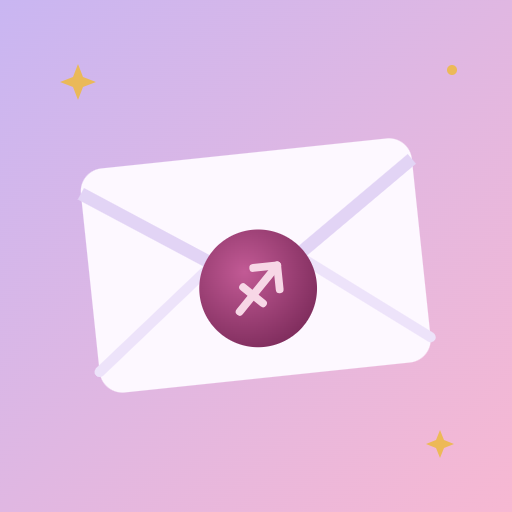
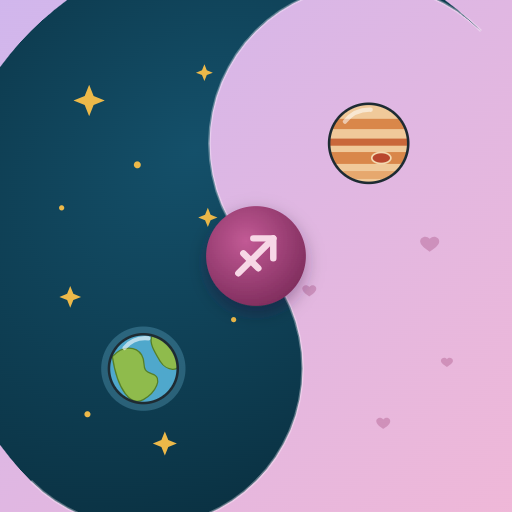
0.1.92: іконка — інь-янь двох половин із Землею, Юпітером і Стрільцем; одна стрічка на весь застосунок (ribbon зі стрілками); колесо компактніше, улюбленець над ним

diff --git a/js/plans.js b/js/plans.js
@@ -3,7 +3,7 @@
 import { DATA, who } from './data.js';
 import { get, send } from './api.js';
 import { mascotImg, petName, petFor } from './icons.js';
-import { h, toast, cap, reduceMotion } from './ui.js';
+import { h, toast, cap, reduceMotion, ribbon } from './ui.js';
 import { learned, learn, nudge, hintBar } from './swipehint.js';
 import { burst } from './fx.js';
 import { swipeable } from './feed.js';
@@ -490,12 +490,11 @@ function wheelView(screen, me, pet) {
 
   disc.style.transform = `rotate(${turned}deg)`;
   // Теми — кілька одразу; зняли всі — колесо бере всі
-  const chips = cats.length > 1 ? h('div', { class: 'mk-chips plan-filter', role: 'group', 'aria-label': 'Темы' },
+  const chips = cats.length > 1 ? h('div', { class: 'mk-chips mk-row plan-filter', role: 'group', 'aria-label': 'Темы' },
     ...cats.map(([k, emoji, label]) => h('button', {
       type: 'button', class: 'mk-chip', 'aria-pressed': String(myCats.has(k)), 'aria-checked': String(myCats.has(k)), disabled: iCalled,
       onclick: () => { if (wheelCats.has(k)) wheelCats.delete(k); else wheelCats.add(k); renderPlans(screen); },
     }, `${emoji} ${label}`))) : null;
-  const catNames = (list) => list.map((k) => catOf(k)).map(([, e, l]) => `${e} ${l}`).join(', ');
 
   let hub;
   let note;
@@ -521,11 +520,11 @@ function wheelView(screen, me, pet) {
         renderPlans(screen);
       },
     }, 'Готов!');
-    note = courier(pet, `${cap(me.partner)} зовёт крутить вместе!${inv.cats.length ? ` ${she ? 'Её' : 'Его'} темы: ${catNames(inv.cats)}.` : ''} Отметь свои и жми «Готов» — в колесо попадёт общее.`);
+    note = courier(pet, `${cap(me.partner)} зовёт крутить!${inv.cats.length ? ` ${she ? 'Её' : 'Его'} темы: ${inv.cats.map((k) => catOf(k)[1]).join(' ')}.` : ''} Отметь свои — и «Готов».`);
   } else if (iCalled) {
     hub = h('button', { type: 'button', class: 'plan-hub', disabled: true }, 'Ждём…');
     note = h('div', {},
-      courier(pet, `Позвали ${she ? 'её' : 'его'}! Как только ${me.partner} ${she ? 'будет готова' : 'будет готов'}, колесо закрутится — у вас обоих 🎡`),
+      courier(pet, `Позвали ${she ? 'её' : 'его'}! ${cap(me.partner)} ${she ? 'будет готова' : 'будет готов'} — и колесо закрутится у обоих 🎡`),
       h('button', {
         type: 'button', class: 'btn plan-wide',
         onclick: async () => {
@@ -552,18 +551,21 @@ function wheelView(screen, me, pet) {
     note = h('p', { class: 'hint plan-hint' }, `Выбери темы и позови — ${me.partner} отметит свои, и колесо закрутится для вас обоих. Раз в день.`);
   }
 
-  return [chips, wheel(hub),
+  if (chips) ribbon(chips);
+  // Що робити — над колесом, щоб не сховалось під меню
+  return [chips, h('div', { class: 'plan-note' }, note), wheel(hub),
     open.length > WHEEL_MAX ? h('p', { class: 'hint plan-hint' }, `На колесе до ${WHEEL_MAX} планов — каждый раз другие.`) : null,
-    note, result];
+    result];
 }
 
 function showPick(box, p, spin) {
   const pet = p.cat === 'pets' ? pick(Object.keys(DATA.mascots)) || petFor('box') : petFor('box');
   // Хто крутив: я — «решено»; другий — «он покрутил / она покрутила» (рід — за його/її половиною)
   // Крутили вдвох (spin.with); старі обертання — один
+  // Улюбленець — над карткою, інакше на телефоні його ховає нижнє меню
   box.replaceChildren(
-    cardBody(p, 'plan-pick-card'),
     courier(pet, pick(p.cat === 'pets' ? PET_LINES : PICK_LINES)),
+    cardBody(p, 'plan-pick-card'),
     h('p', { class: 'hint plan-hint' }, spin?.with
       ? 'Колесо выбрало для вас двоих — план уже первым в «Наших планах». Крутим снова завтра.'
       : 'Решено — план уже первым в «Наших планах» у вас обоих. Крутим снова завтра.'));

diff --git a/js/wishes.js b/js/wishes.js
@@ -2,7 +2,7 @@
 import { DATA, who } from './data.js';
 import { get, send, save, postBlob, imageUrl } from './api.js';
 import { mascotImg, petName, petFor } from './icons.js';
-import { h, toast, cap, showPhoto, reduceMotion } from './ui.js';
+import { h, toast, cap, showPhoto, ribbon } from './ui.js';
 import { prepare, toBase64 } from './memes.js';
 import { swipeable } from './feed.js';
 
@@ -372,21 +372,8 @@ function editWish(screen, w, sharedLink = '') {
         onclick: () => { due = preset?.[0] === md ? null : nextDay(md); drawDue(); },
       }, ...card(emoji, name, when(nextDay(md))))));
   };
-  // Стрічка гортається вбік: стрілка біля краю (тап — далі), на кінці стрілка ховається; на старті — одне «підглядання»
-  const moreBtn = h('button', { type: 'button', class: 'want-due-next', 'aria-label': 'Ещё даты', onclick: () => dueChips.scrollBy({ left: dueChips.clientWidth * 0.7, behavior: 'smooth' }) }, '›');
-  // Назад — на компʼютері мишею вбік не погортаєш, тож стрілка й ліворуч (зʼявляється, щойно погортали)
-  const backBtn = h('button', { type: 'button', class: 'want-due-next want-due-back', 'aria-label': 'Назад', onclick: () => dueChips.scrollBy({ left: -dueChips.clientWidth * 0.7, behavior: 'smooth' }) }, '‹');
-  const dueStrip = h('div', { class: 'want-due-strip is-start' }, backBtn, dueChips, moreBtn);
-  const atEnd = () => {
-    dueStrip.classList.toggle('is-end', dueChips.scrollLeft + dueChips.clientWidth >= dueChips.scrollWidth - 4);
-    dueStrip.classList.toggle('is-start', dueChips.scrollLeft <= 4);
-  };
-  dueChips.addEventListener('scroll', atEnd, { passive: true });
-  requestAnimationFrame(() => {
-    atEnd();
-    if (reduceMotion || dueStrip.classList.contains('is-end')) return;
-    setTimeout(() => { dueChips.scrollBy({ left: 60, behavior: 'smooth' }); setTimeout(() => dueChips.scrollBy({ left: -60, behavior: 'smooth' }), 450); }, 500);
-  });
+  // Стрічка — спільна для всього застосунку (краї тануть, стрілки ‹ ›)
+  ribbon(dueChips);
   dueIn.min = today().toLocaleDateString('sv');
   dueIn.addEventListener('change', () => { due = dueIn.value || null; drawDue(); });
   drawDue();
@@ -503,8 +490,8 @@ function editWish(screen, w, sharedLink = '') {
       // Ціна — коротке поле, поруч «очень хочу»: обидва в один рядок
       h('div', { class: 'want-pricerow' }, price, hotBtn),
       note,
-      h('span', { class: 'mk-label want-due-label' }, 'К дате', h('span', { class: 'want-due-more', 'aria-hidden': 'true' }, 'листай →')),
-      dueStrip, dueIn,
+      h('span', { class: 'mk-label want-due-label' }, 'К дате'),
+      dueChips, dueIn,
       h('div', { class: 'sheet-actions' },
         w ? h('button', { type: 'button', class: 'btn want-remove', onclick: remove }, 'Уже не хочу') : null,
         saveBtn)));

diff --git a/css/app.css b/css/app.css
@@ -2142,17 +2142,16 @@ a.want-body:active { background: color-mix(in srgb, var(--lavender) 25%, transpa
   line-height: 1.15;
 }
 .due-emoji { font-size: 1.45rem; }
-.want-due-label { display: flex; justify-content: space-between; align-items: baseline; }
-.want-due-more { font-size: .75rem; color: var(--ink-soft); }
-.want-due-strip { position: relative; }
-.want-due-next {
+/* Стрічка (ribbon): однакова всюди — краї тануть, стрілки ‹ › видно лише туди, куди є що гортати */
+.rib-wrap { position: relative; min-width: 0; }
+.rib-arrow {
   position: absolute;
   top: 50%;
   right: -6px;
   z-index: 2;
-  width: 32px;
-  height: 32px;
-  margin-top: -16px;
+  width: 30px;
+  height: 30px;
+  margin-top: -15px;
   padding: 0 0 2px;
   border: 1px solid var(--lavender);
   border-radius: 50%;
@@ -2164,16 +2163,16 @@ a.want-body:active { background: color-mix(in srgb, var(--lavender) 25%, transpa
   cursor: pointer;
   transition: opacity .2s;
 }
-.want-due-next:hover { opacity: 1; }
-[data-side="vin"] .want-due-next { background: var(--env); color: var(--cream); border-color: rgba(255, 255, 255, .2); }
-.want-due-strip.is-end .want-due-next:not(.want-due-back), .want-due-strip.is-start .want-due-back { opacity: 0; pointer-events: none; }
-.want-due-back { right: auto; left: -6px; }
+.rib-arrow:hover { opacity: 1; }
+[data-side="vin"] .rib-arrow { background: var(--env); color: var(--cream); border-color: rgba(255, 255, 255, .2); }
+.rib-back { right: auto; left: -6px; }
+.rib-wrap:not(.is-more-end) .rib-next, .rib-wrap:not(.is-more-start) .rib-back { opacity: 0; pointer-events: none; }
 .want-due-strip.is-end ~ .want-due-label .want-due-more, .want-due-label:has(+ .want-due-strip.is-end) .want-due-more { visibility: hidden; }
 .due-name { font-size: .8125rem; font-weight: 500; white-space: nowrap; }
 .due-when { font-size: .6875rem; opacity: .7; white-space: nowrap; }
 .want-due-in { margin-top: 8px; }
 .gift-wish-box { margin-top: 6px; }
-.want-due-row { -webkit-mask-image: linear-gradient(90deg, #000 88%, transparent); mask-image: linear-gradient(90deg, #000 88%, transparent); }
+
 
 /* Хотелки: нахилене фото кур'єра не лягає кутом на «Её хотелки / Мои» */
 .want-courier { margin-bottom: 16px; }

diff --git a/js/ui.js b/js/ui.js
@@ -26,11 +26,25 @@ export const reduceMotion = matchMedia('(prefers-reduced-motion: reduce)').match
 // Стрічка чипів, що гортається вбік: край, за яким ще щось є, тане — видно, що можна горнути; вибраний чип — у полі зору
 export function ribbon(row) {
   row.classList.add('mk-ribbon');
+  // Стрілки по краях — і для компʼютера (мишею вбік не погортаєш), і щоб на телефоні було видно, що це стрічка
+  const go = (dir) => row.scrollBy({ left: dir * row.clientWidth * 0.7, behavior: reduceMotion ? 'auto' : 'smooth' });
+  const back = h('button', { type: 'button', class: 'rib-arrow rib-back', 'aria-label': 'Листать назад', tabindex: '-1', onclick: () => go(-1) }, '‹');
+  const next = h('button', { type: 'button', class: 'rib-arrow rib-next', 'aria-label': 'Листать дальше', tabindex: '-1', onclick: () => go(1) }, '›');
+  const wrap = h('div', { class: 'rib-wrap' });
   const edges = () => {
     const end = row.scrollWidth - row.clientWidth - row.scrollLeft;
     row.classList.toggle('is-more-start', row.scrollLeft > 4);
     row.classList.toggle('is-more-end', end > 4);
+    wrap.classList.toggle('is-more-start', row.scrollLeft > 4);
+    wrap.classList.toggle('is-more-end', end > 4);
   };
+  // Обгортка для стрілок — щойно стрічка опинилась у документі (ribbon часто кличуть до вставки)
+  const mount = (n = 0) => {
+    if (!row.parentNode) { if (n < 120) requestAnimationFrame(() => mount(n + 1)); return; }
+    if (!row.parentNode.classList?.contains('rib-wrap')) { row.replaceWith(wrap); wrap.append(back, row, next); }
+    edges();
+  };
+  mount();
   row.addEventListener('scroll', edges, { passive: true });
   row.addEventListener('click', (e) => e.target.closest('.mk-chip')?.scrollIntoView({ block: 'nearest', inline: 'nearest', behavior: reduceMotion ? 'auto' : 'smooth' }));
   new ResizeObserver(edges).observe(row);

diff --git a/js/version.js b/js/version.js
@@ -1,7 +1,8 @@
 // Версія і «Что нового»: при кожному випуску — новий рядок угорі й новий VERSION
-export const VERSION = '0.1.91';
+export const VERSION = '0.1.92';
 
 export const NEWS = [
+  ['0.1.92', 'Новая иконка: инь-янь из двух половин — ночь со звёздами и Землёй, пудра с сердечками и Юпитером, Стрелец посередине (на главном экране появится после переустановки ярлыка). Все ленты в приложении одинаковые — со стрелками по краям. Колесо компактнее, питомец над ним и крупнее.'],
   ['0.1.91', 'Колесо теперь крутим вдвоём: один зовёт «Крутим?» и отмечает темы, второй отмечает свои и жмёт «Готов» — в колесо попадает общее, и у обоих выпадает одно и то же. Раз в день, по-честному. В «К дате» стрелки в обе стороны, фото — справа от названия. Хотелки больше не мигают после перехода из чата.'],
   ['0.1.90', 'Питомец на полке конвертов говорит коротко: «Открой, когда…».'],
   ['0.1.89', '«К дате» в хотелке — карточки с датой и сколько осталось, ближайшие первыми, листаются стрелкой. Фото — квадратиком у названия, цена рядом с «очень хочу». В «Письмах» больше нельзя спрятать сообщение — всё на виду, свайп вправо по-прежнему отвечает. На полке конвертов «Открой, когда…» говорит питомец.'],

diff --git a/css/plans.css b/css/plans.css
@@ -221,12 +221,16 @@
 /* Колесо */
 .plan-filter { margin: 0 0 6px; }
 
+/* Колесо — щоб разом із темами й реплікою влазило на екран телефона */
 .plan-wheel {
   position: relative;
-  width: min(100%, 320px);
+  width: min(100%, 250px, 36vh);
   aspect-ratio: 1;
-  margin: 22px auto 0;
+  margin: 12px auto 0;
 }
+.plan-note .courier { margin-top: 8px; align-items: center; }
+.plan-note .mascot { width: 76px; height: 76px; }
+.plan-note .bubble { padding-block: 8px; }
 
 .plan-disc {
   display: block;
@@ -274,8 +278,8 @@
   top: 50%;
   left: 50%;
   z-index: 1;
-  width: 86px;
-  height: 86px;
+  width: 70px;
+  height: 70px;
   padding: 0;
   transform: translate(-50%, -50%);
   border: 4px solid var(--paper);
@@ -381,10 +385,9 @@
 .plan-filter {
   flex-wrap: nowrap;
   overflow-x: auto;
-  padding: 2px 0;
+  margin: 0 -16px;
+  padding: 2px 16px;
   scrollbar-width: none;
-  -webkit-mask-image: linear-gradient(90deg, #000 85%, transparent);
-  mask-image: linear-gradient(90deg, #000 85%, transparent);
 }
 .plan-filter::-webkit-scrollbar { display: none; }
 .plan-filter .mk-chip { flex: none; white-space: nowrap; }

diff --git a/js/maker.js b/js/maker.js
@@ -148,6 +148,7 @@ function gifPanel(done) {
   const more = h('button', { type: 'button', class: 'btn mk-more', hidden: true }, 'Ещё гифки');
   const moods = h('div', { class: 'mk-moods', role: 'radiogroup', 'aria-label': 'Настроение' });
   const chips = h('div', { class: 'mk-chips mk-gif-chips', role: 'radiogroup', 'aria-label': 'Ещё гифки' });
+  ribbon(chips);
   const input = h('input', { type: 'search', maxlength: '80', placeholder: 'Найти своими словами', 'aria-label': 'Найти гифку', enterkeyhint: 'search' });
   const form = h('form', { class: 'mk-gif-search', role: 'search' }, input, h('button', { type: 'submit', class: 'btn', 'aria-label': 'Искать' }, '🔎'));
   const aiGo = h('button', { type: 'button', class: 'mk-chip mk-ai-more' }, '✨ Ещё идеи');
